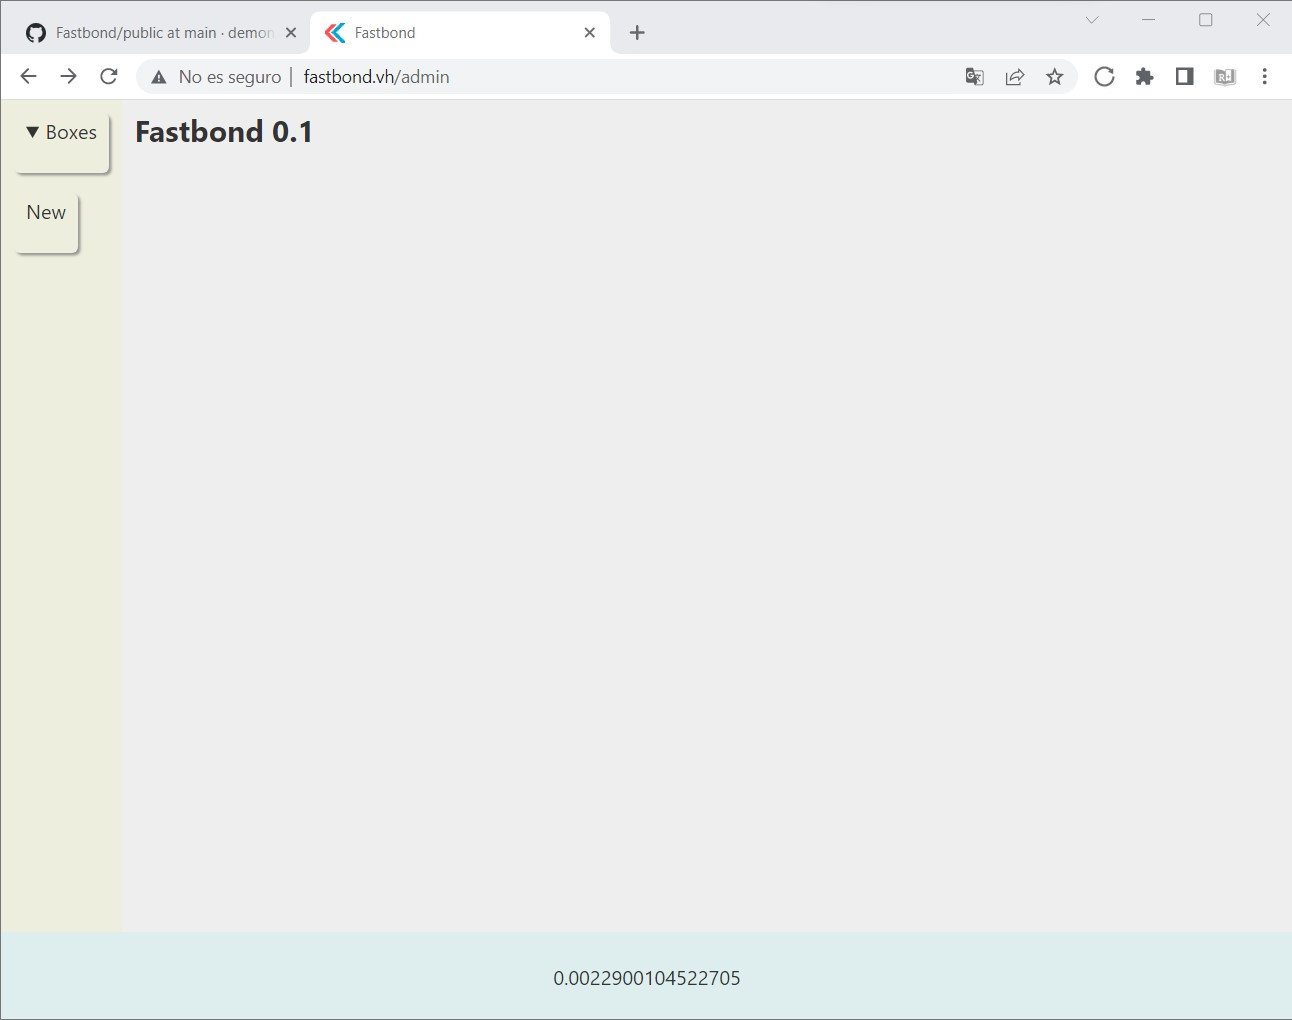
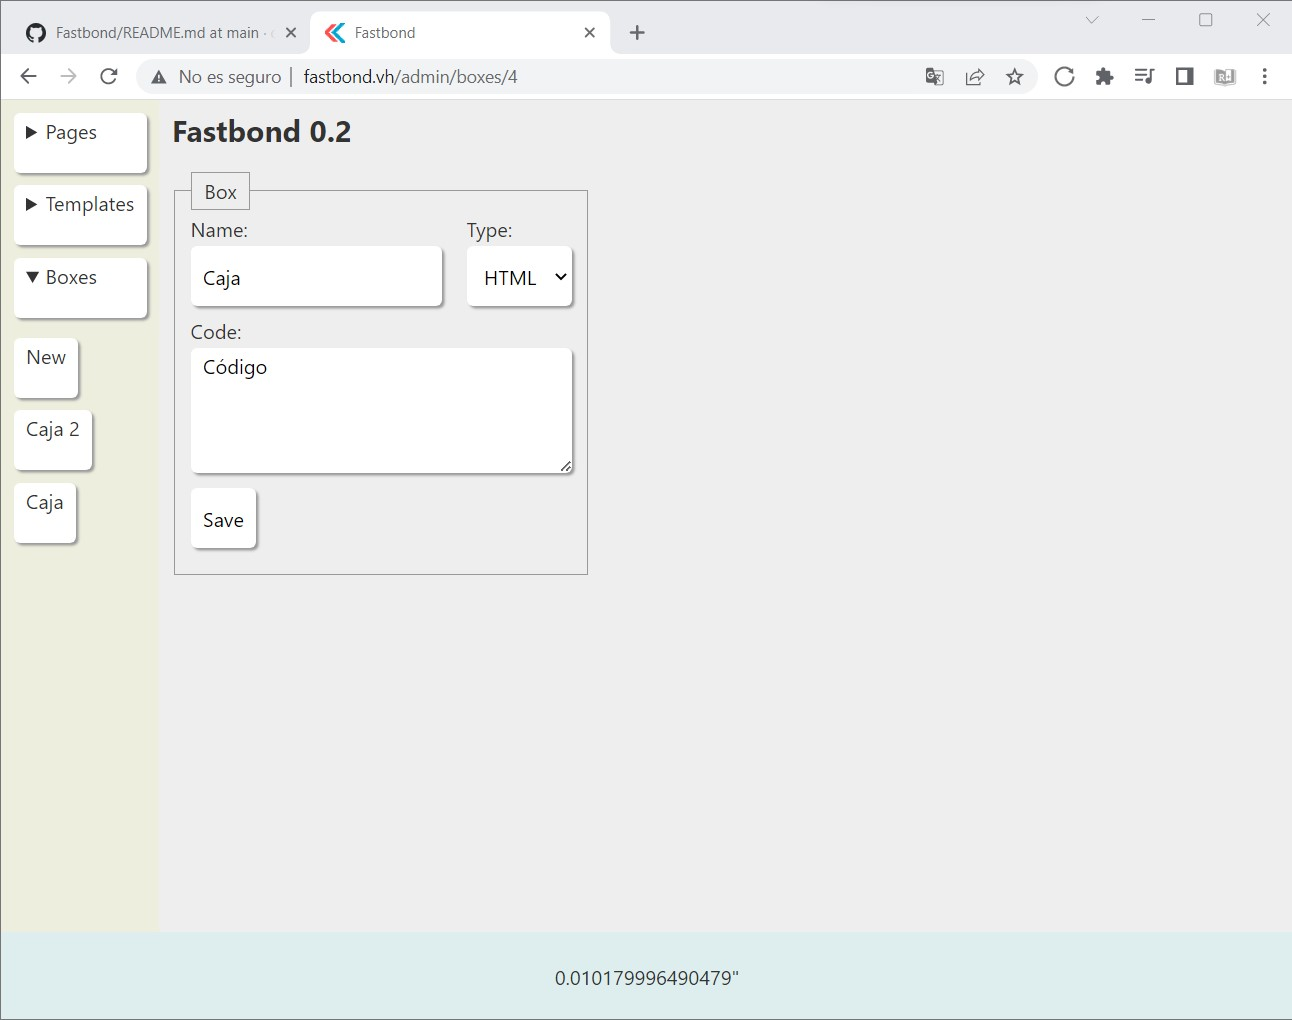
Add CRUD of boxes, only the base

diff --git a/public/css/admin.min.css b/public/css/admin.min.css
@@ -1,1 +1,1 @@
-/*! modern-normalize v1.1.0 | MIT License | https://github.com/sindresorhus/modern-normalize */*,::after,::before{box-sizing:border-box}html{-moz-tab-size:4;tab-size:4}html{line-height:1.15;-webkit-text-size-adjust:100%}body{margin:0}body{font-family:system-ui,-apple-system,'Segoe UI',Roboto,Helvetica,Arial,sans-serif,'Apple Color Emoji','Segoe UI Emoji'}hr{height:0;color:inherit}abbr[title]{text-decoration:underline dotted}b,strong{font-weight:bolder}code,kbd,pre,samp{font-family:ui-monospace,SFMono-Regular,Consolas,'Liberation Mono',Menlo,monospace;font-size:1em}small{font-size:80%}sub,sup{font-size:75%;line-height:0;position:relative;vertical-align:baseline}sub{bottom:-.25em}sup{top:-.5em}table{text-indent:0;border-color:inherit}button,input,optgroup,select,textarea{font-family:inherit;font-size:100%;line-height:1.15;margin:0}button,select{text-transform:none}[type=button],[type=reset],[type=submit],button{-appearance:button}::-moz-focus-inner{border-style:none;padding:0}:-moz-focusring{outline:1px dotted ButtonText}:-moz-ui-invalid{box-shadow:none}legend{padding:0}progress{vertical-align:baseline}::-webkit-inner-spin-button,::-webkit-outer-spin-button{height:auto}[type=search]{-appearance:textfield;outline-offset:-2px}::-webkit-search-decoration{-appearance:none}::-webkit-file-upload-button{-appearance:button;font:inherit}summary{display:list-item}.gap0{gap:0}.hide{display:none}.nowrap{flex-wrap:nowrap!important}.tabs{display:flex;list-style:none;margin:0;padding:0}.tabs li{margin:0 5px;padding:10px}.tabs li.active{border:1px solid #fff;border-bottom:0;border-radius:5px 5px 0 0;background:#fff}a{color:#333;display:inline-block;text-decoration:none}aside{background:#eed;max-width:280px;padding:10px;width:fit-content}aside ul{list-style:none;padding:0}aside details{white-space:nowrap}body{color:#333;display:flex;flex-direction:column;min-height:100vh}body>section{flex:1}fieldset{border:1px solid #999;margin-bottom:20px;white-space:nowrap;width:fit-content}fieldset legend{border:1px solid #999;padding:5px 10px}footer{display:flex;background:#dee;justify-content:center;max-height:280px;padding:10px}h1,h2,h3,h4,h5,h6{margin-top:0}[type=text],a,button,summary,textarea{border:0;border-radius:5px;box-shadow:2px 2px 2px #999;height:48px;margin:0 0 10px;padding:5px 10px}[type=text]:focus-visible{outline:0!important}main{background:#eee;padding:10px;width:100%}section{display:flex;flex-wrap:wrap;gap:20px}textarea{height:100px;max-width:100%;width:280px}
+/*! modern-normalize v1.1.0 | MIT License | https://github.com/sindresorhus/modern-normalize */*,::after,::before{box-sizing:border-box}html{-moz-tab-size:4;tab-size:4}html{line-height:1.15;-webkit-text-size-adjust:100%}body{margin:0}body{font-family:system-ui,-apple-system,'Segoe UI',Roboto,Helvetica,Arial,sans-serif,'Apple Color Emoji','Segoe UI Emoji'}hr{height:0;color:inherit}abbr[title]{text-decoration:underline dotted}b,strong{font-weight:bolder}code,kbd,pre,samp{font-family:ui-monospace,SFMono-Regular,Consolas,'Liberation Mono',Menlo,monospace;font-size:1em}small{font-size:80%}sub,sup{font-size:75%;line-height:0;position:relative;vertical-align:baseline}sub{bottom:-.25em}sup{top:-.5em}table{text-indent:0;border-color:inherit}button,input,optgroup,select,textarea{font-family:inherit;font-size:100%;line-height:1.15;margin:0}button,select{text-transform:none}[type=button],[type=reset],[type=submit],button{-appearance:button}::-moz-focus-inner{border-style:none;padding:0}:-moz-focusring{outline:1px dotted ButtonText}:-moz-ui-invalid{box-shadow:none}legend{padding:0}progress{vertical-align:baseline}::-webkit-inner-spin-button,::-webkit-outer-spin-button{height:auto}[type=search]{-appearance:textfield;outline-offset:-2px}::-webkit-search-decoration{-appearance:none}::-webkit-file-upload-button{-appearance:button;font:inherit}summary{display:list-item}.gap0{gap:0}.hide{display:none}.nowrap{flex-wrap:nowrap!important}.tabs{display:flex;list-style:none;margin:0;padding:0}.tabs li{margin:0 5px;padding:10px}.tabs li.active{border:1px solid #fff;border-bottom:0;border-radius:5px 5px 0 0;background:#fff}[type=text],a,button,select,summary,textarea{background:#fff;border:0;border-radius:5px;box-shadow:2px 2px 2px #999;height:48px;margin:0 0 10px;padding:5px 10px}a{color:#333;display:inline-block;text-decoration:none}aside{background:#eed;max-width:280px;padding:10px;width:fit-content}aside ul{list-style:none;padding:0}aside details{white-space:nowrap}body{color:#333;display:flex;flex-direction:column;min-height:100vh}body>section{flex:1}fieldset{border:1px solid #999;margin-bottom:20px;white-space:nowrap;width:fit-content}fieldset legend{border:1px solid #999;padding:5px 10px}footer{display:flex;background:#dee;justify-content:center;max-height:280px;padding:10px}h1,h2,h3,h4,h5,h6{margin-top:0}label{display:block;margin-bottom:5px}main{background:#eee;padding:10px;width:100%}section{display:flex;flex-wrap:wrap;gap:20px}textarea{height:100px;max-width:100%;width:-webkit-fill-available}[type=text]:focus-visible{outline:0!important}

diff --git a/public/css/admin/9-admin.css b/public/css/admin/9-admin.css
@@ -1,3 +1,18 @@
+a,
+button,
+select,
+summary,
+textarea,
+[type="text"] {
+    background: #fff;
+    border: 0;
+    border-radius: 5px;
+    box-shadow: 2px 2px 2px #999;
+    height: 48px;
+    margin: 0 0 10px;
+    padding: 5px 10px;
+}
+
 a {
     color: #333;
     display: inline-block;
@@ -60,21 +75,9 @@ h6 {
     margin-top: 0;
 }
 
-a,
-button,
-summary,
-textarea,
-[type="text"] {
-    border: 0;
-    border-radius: 5px;
-    box-shadow: 2px 2px 2px #999;
-    height: 48px;
-    margin: 0 0 10px;
-    padding: 5px 10px;
-}
-
-[type="text"]:focus-visible {
-    outline: 0 !important
+label {
+    display: block;
+    margin-bottom: 5px;
 }
 
 main {
@@ -92,5 +95,9 @@ section {
 textarea {
     height: 100px;
     max-width: 100%;
-    width: 280px;
+    width: -webkit-fill-available;
+}
+
+[type="text"]:focus-visible {
+    outline: 0 !important
 }

diff --git a/private/libs/lite_record.php b/private/libs/lite_record.php
@@ -1,0 +1,124 @@
+<?php
+//app/libs/lite_record.php
+
+/**
+ * Record 
+ * Para los que prefieren SQL con las ventajas de ORM
+ *
+ * Clase padre para añadir tus métodos
+ *
+ * @category Kumbia
+ * @package ActiveRecord
+ * @subpackage LiteRecord
+ */
+
+use Kumbia\ActiveRecord\LiteRecord as ORM;
+
+class LiteRecord extends ORM
+{
+	#
+	public static function arrayBy($arr_old, $field='aid')
+	{
+        $arr_new = [];
+        foreach ($arr_old as $obj) {
+            $arr_new[$obj->$field] = $obj;
+        }
+		return $arr_new;
+	}
+
+	#
+	public static function cols()
+	{
+		$source = static::getSource();
+		$rows = self::all("DESCRIBE $source");
+		$a = [];
+		foreach ($rows as $row) {
+			$a[$row->Field] = '';
+		}
+		return (object)$a;
+	}
+
+	#
+	public static function count(string $sql='', array $values=[]) : int
+    {
+        $source = static::getSource();
+		$query = $source::query("SELECT COUNT(*) AS count FROM ($sql) AS t", $values)->fetch();
+        return (int) $query->count;
+	}
+
+    #
+    public static function getSlug($table, $slug, $n='')
+    {
+        $slug_n = empty($n) ? $slug : "$slug-$n";
+        $sql = "SELECT * FROM $table WHERE slug=?";
+        $row = parent::first($sql, [$slug_n]);
+        if ($row) {
+            $n = empty($n) ? 1 : ++$n;
+            return self::getSlug($table, $slug, $n);
+        }
+        return $slug_n;
+    }
+
+	#
+	public static function getValue(string $col='')
+    {
+        $source = static::getSource();
+		if ($source == 'usuarios') {
+			$sql = "SELECT * FROM $source WHERE aid=?";
+		}
+		else {
+			$sql = "SELECT * FROM $source WHERE usuarios_aid=?";
+		}
+        $row = static::first($sql, [Session::get('rol')]);
+		return $row->$col;
+	}
+
+	# 
+	public function rowsByParents($parents)
+	{
+		$keys = $vals = [];
+		foreach ($parents as $par) {
+			$keys[] = '?';
+			$vals[] = $par->aid;
+		}
+		$keys = implode(', ', $keys);
+
+		if ( ! $keys) {
+			return [];
+		}
+
+        $source = mb_strtolower(get_class($this));
+
+		$sql = "SELECT * FROM $source WHERE parent_aid IN ($keys)";
+		$rows = self::all($sql, $vals);
+
+		$array = [];
+		foreach ($rows as $row) {
+			$array[$row->parent_aid][] = $row;
+		}
+		return $array;
+	}
+
+	#
+	public static function setValue(string $col='', string $val='')
+    {
+        $source = static::getSource();
+		if ($source == 'usuarios') {
+			$sql = "UPDATE $source SET $col=? WHERE aid=?";
+		}
+		else {
+			$sql = "UPDATE $source SET $col=? WHERE usuarios_aid=?";
+		}
+        static::query($sql, [$val, Session::get('rol')]);
+	}
+
+	#
+	public static function validate($type, $var)
+    {
+		if ($type == 'email') {
+			$var = filter_var($var, FILTER_VALIDATE_EMAIL);
+			$var = mb_strtolower($var);
+		}
+		return $var;
+	}
+}

diff --git a/private/libs/_var.php b/private/libs/_var.php
@@ -1,0 +1,102 @@
+<?php
+/**
+ */
+class _var
+{
+    # 1
+    static public function die($var, $no_tags=0)
+    {
+        $allowed_IP = Config::get('exception.trustedIp');
+        if ( ! in_array($_SERVER['REMOTE_ADDR'], $allowed_IP)) {
+            return;
+        }
+
+        echo round((microtime(1) - $_SERVER['REQUEST_TIME_FLOAT'])*1000, 4) . ' ms<hr>';
+        echo ($var) ? '<h3>RESULT</h3>' : '<h3>EMPTY</h3>';
+        self::echo($var, $no_tags);
+        die;
+    }
+    
+    # 1.1
+    static public function echo($var, $no_tags=0)
+    {
+		echo self::return($var, $no_tags);
+	}
+    
+	# 1.2
+    static public function return($var, $no_tags=0)
+    {
+        if ($no_tags) {
+            if (is_array($var)) {
+                array_walk_recursive($var, function (&$value) {
+                    $value = str_replace('<', '&lt;', $value);
+                });
+            }
+            elseif (is_bool($var)) {
+                $var = ($var === TRUE) ? 'TRUE' : 'FALSE';
+            }
+            elseif (is_null($var)) {
+                $var = 'NULL';
+            }
+            else {
+                $var = str_replace('<', '&lt;', $var);
+            }
+            return '<hr><pre>' . print_r($var, 1) . '</pre>';
+        }
+
+        if (is_bool($var)) {
+            $var = ($var === TRUE) ? 'TRUE' : 'FALSE';
+        }
+        elseif (is_null($var)) {
+            $var = 'NULL';
+        }
+
+        /*if (is_object($var)) {
+            $var = (array)$var;
+        }*/
+        return '<hr><pre>' . print_r($var, 1) . '</pre>';
+    }
+
+    # 2
+	static public function flush($str='')
+	{
+        if ( ! ob_get_level()) {
+            ob_start();
+        }
+        if ($str) {
+            _var::echo($str);
+        }              
+        flush();
+        ob_end_flush();
+	}
+
+    # 3
+	static public function info()
+	{
+        return [$_REQUEST, $_SERVER, $_SESSION];
+	}
+
+    # 4
+	static public function getUrlVar($url, $var='v')
+	{
+        if (strstr($url, 'https://youtu.be/')) {
+            $val = str_replace('https://youtu.be/', '', $url);
+            return explode('/', $val, 2)[0];
+        }
+
+        $vars = explode('?', $url)[1];
+        if (strstr($vars, '&')) {
+            $vars = explode('&', $vars);
+            foreach ($vars as $s)
+            {
+                $kv = explode('=', $s);
+                if (empty($kv[1])) {
+                    continue;
+                }
+                $a[$kv[0]] = $kv[1];
+            }
+            return $a[$var];
+        }
+        return strstr($vars, 'v=') ? explode('v=', $vars)[1] : $vars;
+    }
+}

diff --git a/private/controllers/admin/boxes_controller.php b/private/controllers/admin/boxes_controller.php
@@ -1,0 +1,24 @@
+<?php
+/**
+ */
+class BoxesController extends AdminController
+{
+    # 0
+    public function __call($name, $params)
+    {
+        $this->index($name, ...$params);
+    }
+
+    # 1
+    public function index($id=0)
+    {
+        if (Input::post()) {
+            (new Boxes)->saveBox();
+        }
+
+        if ($id) {
+            $this->boxes = (new Boxes)->get($id);
+        }
+        View::select('index');
+    }
+}

diff --git a/private/models/boxes.php b/private/models/boxes.php
@@ -1,0 +1,11 @@
+<?php
+/**
+ */
+class Boxes extends LiteRecord
+{
+    # 1
+    public function saveBox()
+    {
+        parent::save(Input::post('boxes'));
+    }
+}

diff --git a/README.md b/README.md
@@ -1,4 +1,12 @@
-# Fastbond 0.1
+# Fastbond 0.2
 Box based CMS for KumbiaPHP
 
-![alt text](https://github.com/demonio/Fastbond/blob/main/public/img/fastbond/boxes.jpg?raw=true)
+## TO DO
+
+## DOING
+- Testing the CRUD of boxes.
+
+## DONE
+- CRUD of boxes, only the base.
+
+![Admin of boxes base](https://github.com/demonio/Fastbond/blob/main/public/img/fastbond/boxes.jpg?raw=true)
